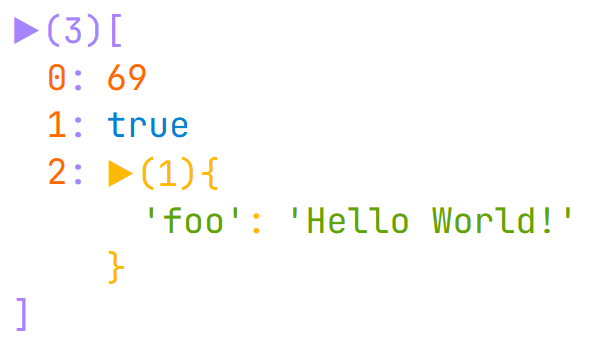
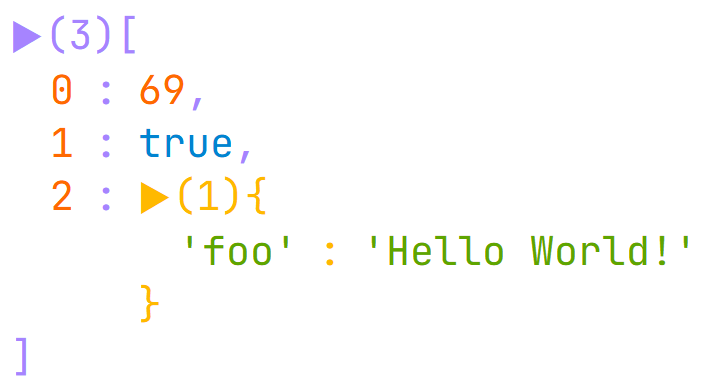
v2.1.0 breaking - css class rename to reduce clash

diff --git a/src/generic/colored.tsx b/src/generic/colored.tsx
@@ -4,7 +4,7 @@ import { Oklch } from "../types/oklch";
 export const Colored: Component<{ color: Oklch; children: JSXElement }> = (props) => {
 	return (
 		<div
-			class="omni"
+			class="omnires"
 			style={{ color: props.color }}
 		>
 			{props.children}

diff --git a/src/primitive/primitive.tsx b/src/primitive/primitive.tsx
@@ -6,7 +6,7 @@ export function primitive<T extends Primitive>(color: Oklch): OmniPrimitive<T> {
 	return (props) => {
 		return (
 			<div
-				class="omni"
+				class="omnires"
 				style={{ color }}
 			>
 				{stringify(props.children)}

diff --git a/src/index.css b/src/index.css
@@ -1,7 +1,7 @@
 @import url("https://fonts.googleapis.com/css2?family=JetBrains+Mono&display=swap");
 
-div.omni,
-div.omni div {
+div.omnires,
+div.omnires div {
 	display: inline-block;
 	vertical-align: text-top;
 

diff --git a/src/primitive/components/bigint.ts b/src/primitive/components/bigint.ts
@@ -1,3 +1,3 @@
 import { primitive } from "../primitive";
 
-export const OmniBigint = primitive<bigint>("oklch(64.8% 0.2 131.684)");
+export const OmniBigint = primitive<bigint>("oklch(55.4% 0.135 66.442)");

diff --git a/src/primitive/components/string.ts b/src/primitive/components/string.ts
@@ -1,3 +1,3 @@
 import { primitive } from "../primitive";
 
-export const OmniString = primitive<string>("oklch(55.4% 0.135 66.442)");
+export const OmniString = primitive<string>("oklch(64.8% 0.2 131.684)");

diff --git a/src/generic/list-like.tsx b/src/generic/list-like.tsx
@@ -21,7 +21,7 @@ export function listlike<T extends Generic>(
 
 		return (
 			<div
-				class="omni"
+				class="omnires"
 				style={{ color: color1 }}
 			>
 				<div

diff --git a/README.md b/README.md
@@ -21,7 +21,7 @@ pnpm add omnires
 yarn add omnires
 ```
 
-Now you could render any object onto your page!
+Now you could render any object onto your page.
 
 ```ts
 // example.ts
@@ -32,7 +32,7 @@ const result = document.querySelector("#result");
 render([69, true, { foo: "Hello World!" }], result);
 ```
 
-will give you...
+would give you...
 
 ![Demo1](https://github.com/CarbonicSoda/omnires/blob/master/media/demo/demo1.png?raw=true)
 
@@ -82,9 +82,9 @@ Returns the `tag` element.
 
 </details>
 
-### Customization
+### Demo
 
-To customize Omnires e.g. alter font-size: mess around with the `.omni` class in CSS.
+A demo of Omnires is available at [Omnires Demo](https://carbonicsoda.github.io/omnires/).
 
 ---
 
